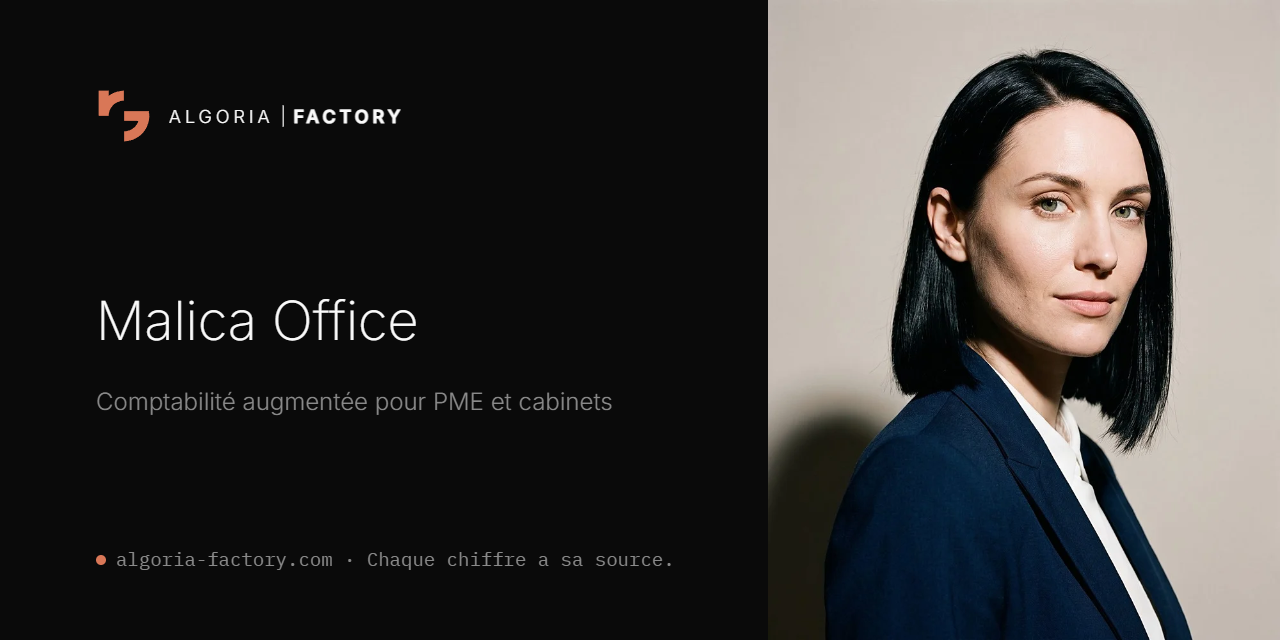
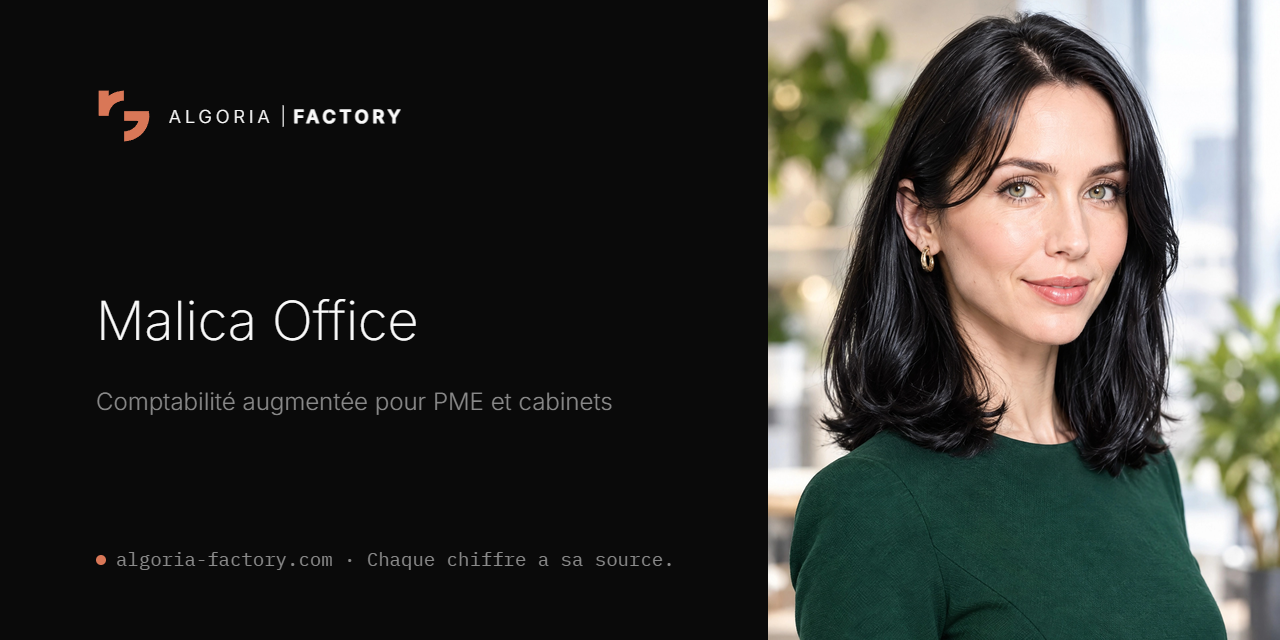
chore: add ALGORIA Factory proprietary license AF-PSL-1.1 (#412)
* chore: add ALGORIA Factory proprietary license AF-PSL-1.1

* chore: refine authorized AI tools clause

* docs(brand): update Malica portrait in the README banner

diff --git a/LICENSE.md b/LICENSE.md
@@ -1,0 +1,192 @@
+<p align="center">
+  <picture>
+    <source media="(prefers-color-scheme: dark)" srcset="https://raw.githubusercontent.com/ALGORIA-FACTORY/.github/main/assets/algoria-logo-dark.png">
+    <img alt="ALGORIA Factory" src="https://raw.githubusercontent.com/ALGORIA-FACTORY/.github/main/assets/algoria-logo-light.png" width="420">
+  </picture>
+</p>
+
+<h1 align="center">ALGORIA Factory Proprietary Software License</h1>
+
+<p align="center">
+  <code>AF-PSL-1.1</code> &nbsp;·&nbsp; Effective 20 November 2026
+</p>
+
+<p align="center">
+  <b>PROPRIETARY &nbsp;·&nbsp; CONFIDENTIAL &nbsp;·&nbsp; ALL RIGHTS RESERVED &nbsp;·&nbsp; NO AI USE</b>
+</p>
+
+---
+
+> **In one sentence.** This code belongs to ALGORIA Factory. Nobody may use, copy, scrape,
+> fetch, index, or feed it to any AI system without ALGORIA Factory's written authorization.
+> This applies even if the code becomes publicly visible. Breaches are pursued worldwide.
+
+---
+
+## 1. Licensor
+
+| | |
+|---|---|
+| **Company** | ALGORIA FACTORY SARL. A Tunisian limited liability company (*Société à Responsabilité Limitée*), partially exporting, with a share capital of TND 1,000 |
+| **Registered office** | Immeuble Le Montplaisir, 2nd floor, Office B25, Avenue Kheireddine Pacha, 1073 Bab Bhar, Tunis, Tunisia |
+| **National Business Register (RNE)** | Unique identifier 1958330V |
+| **Branch** | ALGORIA Factory, Senegal Branch, Dakar |
+| **Contact** | legal@algoria-factory.com |
+
+In this License, the company, its branches, and its successors are called **"ALGORIA Factory"**.
+
+## 2. Definitions
+
+- **"Software"** means the complete contents of the repository that contains this License, and every earlier, later, partial, or derived version of those contents, wherever they are hosted or copied. This covers source code, object code, data models, schemas, prompts, AI configurations and weights, rules, regulatory mappings, parameters, tests, documentation, designs, images, commit history, and build outputs. It includes, among others, MEL Plus Suite, the Regalica Compliance Suite (Regalica IDC, RegTrack, RegFlow, RegFISC), Malica Office, and the ZFT-CORE platform.
+- **"AI System"** means any machine-learning model, large language model, code assistant, agent, embedding or vector index, retrieval-augmented generation (RAG) pipeline, or any other system that learns from data, generates output from data, or answers questions about data.
+- **"Automated Access"** means access by a bot, crawler, scraper, spider, fetcher, API client, script, browser automation, or AI agent, other than access through an Authorized Tool.
+- **"Authorized Person"** means an employee, officer, contractor, or consultant of ALGORIA Factory who has been given access in writing, is bound by a confidentiality obligation and an intellectual-property assignment, and is acting within the scope of their duties.
+- **"Authorized Tool"** means a development tool, including an AI System, that ALGORIA Factory has approved in writing and that operates under contractual terms prohibiting the provider from using the Software to train or improve its models. AI assistants subscribed to by ALGORIA Factory under business or team accounts are Authorized Tools when Authorized Persons use them for ALGORIA Factory's work. ALGORIA Factory keeps the list of Authorized Tools and may change it at any time.
+- **"Customer Agreement"** means a written commercial agreement that ALGORIA Factory has signed and that grants rights to use one of its products.
+
+## 3. Ownership
+
+ALGORIA Factory owns the Software exclusively, together with all intellectual-property rights in it worldwide: copyright, database rights, trade secrets, know-how, and trademarks. The Software is protected by:
+
+- Tunisian Law No. 94-36 of 24 February 1994 on literary and artistic property, as amended;
+- Senegalese Law No. 2008-09 of 25 January 2008 on copyright and related rights;
+- the Berne Convention for the Protection of Literary and Artistic Works;
+- the WTO TRIPS Agreement;
+- the trade-secret laws of every jurisdiction where the Software is accessed.
+
+**No rights are granted by implication, by estoppel, by conduct, or in any other way.** Every right that this License does not expressly grant is reserved.
+
+## 4. Public visibility grants no rights
+
+The Software may become visible to the public, whether by an intentional publication, by mistake, through a leak, or through a third party. **Visibility is never a license.** Being able to see, download, or fetch the Software gives you no right to use, copy, or analyze it.
+
+If the Software is hosted on a platform whose terms of service grant its users limited rights (for example, a right to view or fork within that platform), those rights are limited to the platform's own functions. They grant no right to use the Software outside that platform, and none of the rights prohibited in Sections 6 and 7.
+
+An accidental disclosure never waives ALGORIA Factory's trade-secret protection or confidentiality rights.
+
+## 5. Permitted use
+
+The only permitted uses are:
+
+1. **Authorized Persons**, using Authorized Tools, may access, run, and modify the Software, solely to develop, operate, and support ALGORIA Factory products.
+2. **Customers** may use ALGORIA Factory products solely as their Customer Agreement allows. If the Customer Agreement and this License conflict, the Customer Agreement prevails.
+
+Everything else is prohibited.
+
+## 6. Prohibited use
+
+Unless ALGORIA Factory has given its prior written authorization, no person may:
+
+| | Prohibited act |
+|---|---|
+| ✕ | Copy, reproduce, mirror, archive, or fork the Software outside the ALGORIA-FACTORY organization. |
+| ✕ | Modify, translate, adapt, or create derivative works of the Software. |
+| ✕ | Distribute, publish, sell, sublicense, rent, lend, or host the Software, or make it available as a service. |
+| ✕ | Decompile, disassemble, or reverse-engineer the Software, except where mandatory law expressly allows it. |
+| ✕ | Use the Software to design, benchmark, or build a competing product or service. |
+| ✕ | Remove, alter, or hide any copyright notice, license notice, trademark, watermark, or identifier, including the identifier in Section 9. |
+| ✕ | Bypass any security, licensing, access-control, or multi-tenant isolation mechanism. |
+| ✕ | Help, instruct, or allow anyone else to do any of the above. |
+
+## 7. Absolute prohibition on AI use and Automated Access
+
+**7.1 AI Systems.** No person may use the Software, in whole or in part, directly or indirectly, with any AI System that is not an Authorized Tool. This means no person may use the Software to:
+
+- train, pre-train, fine-tune, distill, or evaluate a model;
+- build a dataset, corpus, benchmark, embedding, or vector index;
+- supply context to a model through retrieval, prompts, context windows, or memory;
+- generate code, documentation, or answers from it, or about it, for anyone other than ALGORIA Factory.
+
+**7.2 Automated Access.** No person may crawl, scrape, spider, fetch, mirror, download in bulk, or index the Software by Automated Access, for any purpose.
+
+**7.3 Text and data mining.** ALGORIA Factory expressly reserves its rights against all text and data mining of the Software. This includes the reservation under Article 4(3) of Directive (EU) 2019/790 (the DSM Directive), Article 53(1)(c) of Regulation (EU) 2024/1689 (the AI Act), and every equivalent opt-out under any other law. This License is the machine-readable and human-readable statement of that reservation.
+
+**7.4 Contamination.** Any AI System, model, dataset, or index that has ingested the Software in breach of this Section is considered to contain unauthorized copies of the Software. On ALGORIA Factory's request, its operator must disclose that use, stop it, and delete or retrain the system to remove the Software.
+
+## 8. Confidentiality
+
+The Software and everything you learn from it are **confidential information and trade secrets** of ALGORIA Factory. Authorized Persons must protect them at least as carefully as they protect their own most sensitive information, and never less than reasonably. This duty continues after access ends, without time limit.
+
+**Never commit to this repository:** real customer data, national identity numbers, bank account details or other banking identifiers, credentials, or secrets.
+
+## 9. Tracing identifier
+
+The Software contains unique identifiers, including the following:
+
+`AF-CANARY-63d278e214914a49ac69b1c0d97184a2`
+
+If any of these identifiers appears in a third party's code, dataset, model output, or index, that is evidence that the Software was copied or ingested without authorization.
+
+## 10. Third-party components
+
+The Software may include open-source components. Each one remains under its own license, which applies to that component only. Including an open-source component never places any proprietary part of the Software under an open-source license.
+
+## 11. Contributions
+
+Anything that an Authorized Person contributes to the Software, including code, ideas, and feedback, becomes the exclusive property of ALGORIA Factory when it is created. This assignment applies to the fullest extent the law allows. Where it does not, the contributor grants ALGORIA Factory an exclusive, worldwide, perpetual, irrevocable, royalty-free license to the contribution. The author keeps their moral rights where the law makes them inalienable.
+
+## 12. Breach, remedies, and audit
+
+**12.1 Termination.** Any access or use that breaches this License is unauthorized and ends any permission you had, **automatically and without notice**. When your permission ends, you must immediately stop using the Software, delete every copy (including copies held in AI Systems, datasets, and indexes), and confirm in writing that you have done so.
+
+**12.2 Remedies.** Every breach of this License is both a breach of contract and an infringement of ALGORIA Factory's intellectual-property and trade-secret rights. ALGORIA Factory may claim:
+
+- immediate injunctive relief;
+- seizure of infringing copies (*saisie-contrefaçon*);
+- the destruction or retraining of any contaminated AI System;
+- damages, or the profits made from the breach, whichever is higher;
+- [**TO BE SET BY COUNSEL:** a fixed penalty per breach (*clause pénale*), without prejudice to further damages];
+- reimbursement of its legal costs and attorneys' fees.
+
+**12.3 Joint liability.** Anyone who causes, helps, or knowingly benefits from a breach is jointly and severally liable with the person who committed it.
+
+**12.4 Audit.** Any licensee or contractor must, on ALGORIA Factory's request, allow an audit of its systems to confirm that it complies with this License.
+
+**12.5 Survival.** Sections 3, 4, 6, 7, 8, 9, 11, 12, 13, 14, and 15 continue to apply after termination, and they bind successors and assigns.
+
+## 13. No warranty and limitation of liability
+
+THE SOFTWARE IS PROVIDED **"AS IS"**, WITHOUT ANY WARRANTY OF ANY KIND, WHETHER EXPRESS OR IMPLIED, EXCEPT AS STATED IN A SIGNED CUSTOMER AGREEMENT. TO THE MAXIMUM EXTENT PERMITTED BY LAW, ALGORIA FACTORY IS NOT LIABLE FOR ANY INDIRECT, INCIDENTAL, OR CONSEQUENTIAL DAMAGES, OR FOR LOSS OF PROFITS OR DATA, ARISING FROM THE SOFTWARE.
+
+## 14. Governing law
+
+This License is governed by the **laws of the Republic of Tunisia**. The UN Convention on Contracts for the International Sale of Goods (CISG) does not apply.
+
+## 15. International dispute resolution
+
+**15.1 ICC arbitration.** Any dispute arising out of or in connection with this License or the Software will be finally settled under the **Rules of Arbitration of the International Chamber of Commerce (ICC)**. This includes disputes about the License's existence, validity, interpretation, performance, breach, or termination.
+
+| | |
+|---|---|
+| **Administering institution** | ICC International Court of Arbitration |
+| **Seat** | Geneva, Switzerland |
+| **Arbitrators** | One arbitrator. Three arbitrators if the amount in dispute exceeds USD 2,000,000 |
+| **Language** | English. Documents in French or Arabic may be submitted without translation |
+| **Fast-track procedure** | The ICC Expedited Procedure Provisions apply whenever they are eligible |
+| **Confidentiality** | The proceedings and the award are confidential |
+
+**15.2 Enforcement.** The award is final and binding. It may be enforced in any jurisdiction under the **1958 New York Convention** on the Recognition and Enforcement of Foreign Arbitral Awards, to which Tunisia, Senegal, and more than 170 other States are parties.
+
+**15.3 Courts.** Nothing in this Section 15 prevents ALGORIA Factory from:
+
+- seeking urgent or injunctive relief, or seizure of infringing copies, from any competent court in any country;
+- applying to an ICC Emergency Arbitrator;
+- suing for infringement before the courts of the place where the infringement occurs, or before the courts of Tunis.
+
+## 16. General provisions
+
+- **Severability.** If a court or tribunal finds any provision invalid, that provision is limited to the minimum extent necessary and the rest of the License stays in force.
+- **No waiver.** If ALGORIA Factory does not enforce a right, or delays enforcing it, it has not given that right up.
+- **Language.** This License is written in English. If ALGORIA Factory publishes a French or Arabic translation, the English version prevails.
+- **Updates.** ALGORIA Factory may publish new versions of this License. Each new version applies to access and use that take place after it is published.
+
+---
+
+<p align="center">
+  <sub>
+    © 2026 ALGORIA FACTORY SARL · Tunis · Dakar<br>
+    MEL Plus, Regalica, RegTrack, RegFlow, RegFISC, Malica, ZFT-CORE and the <b>rG</b> monogram
+    are trademarks or brand names of ALGORIA Factory.<br>
+    Licensing enquiries: <a href="mailto:legal@algoria-factory.com">legal@algoria-factory.com</a>
+  </sub>
+</p>
